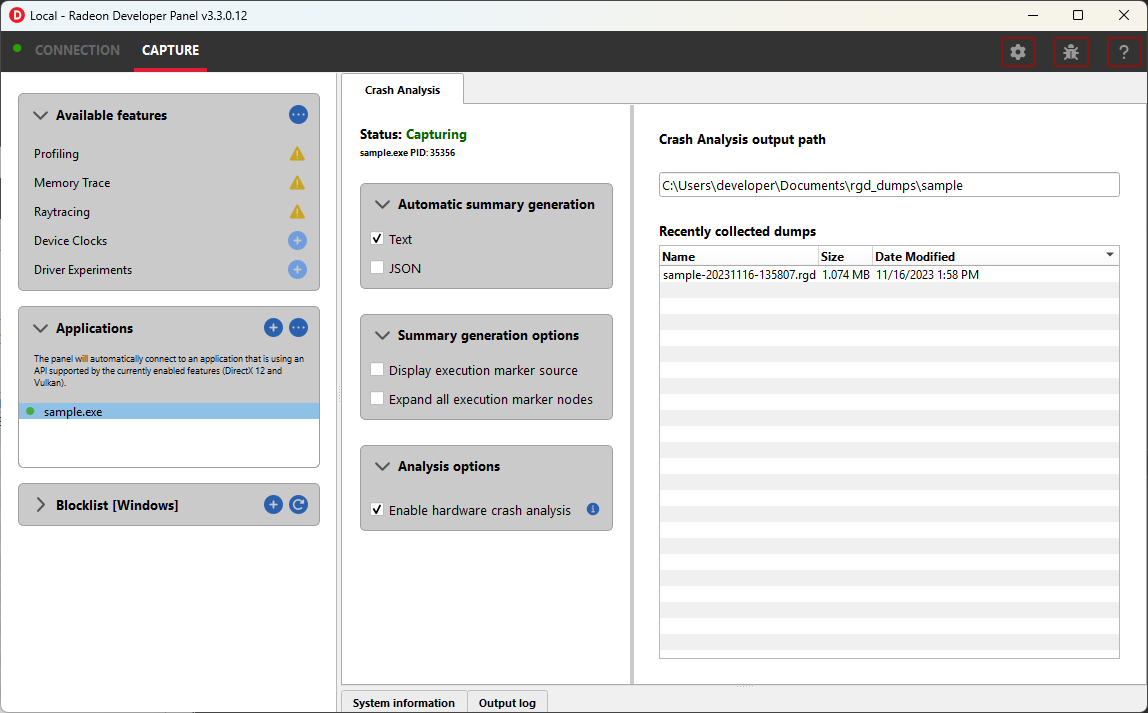
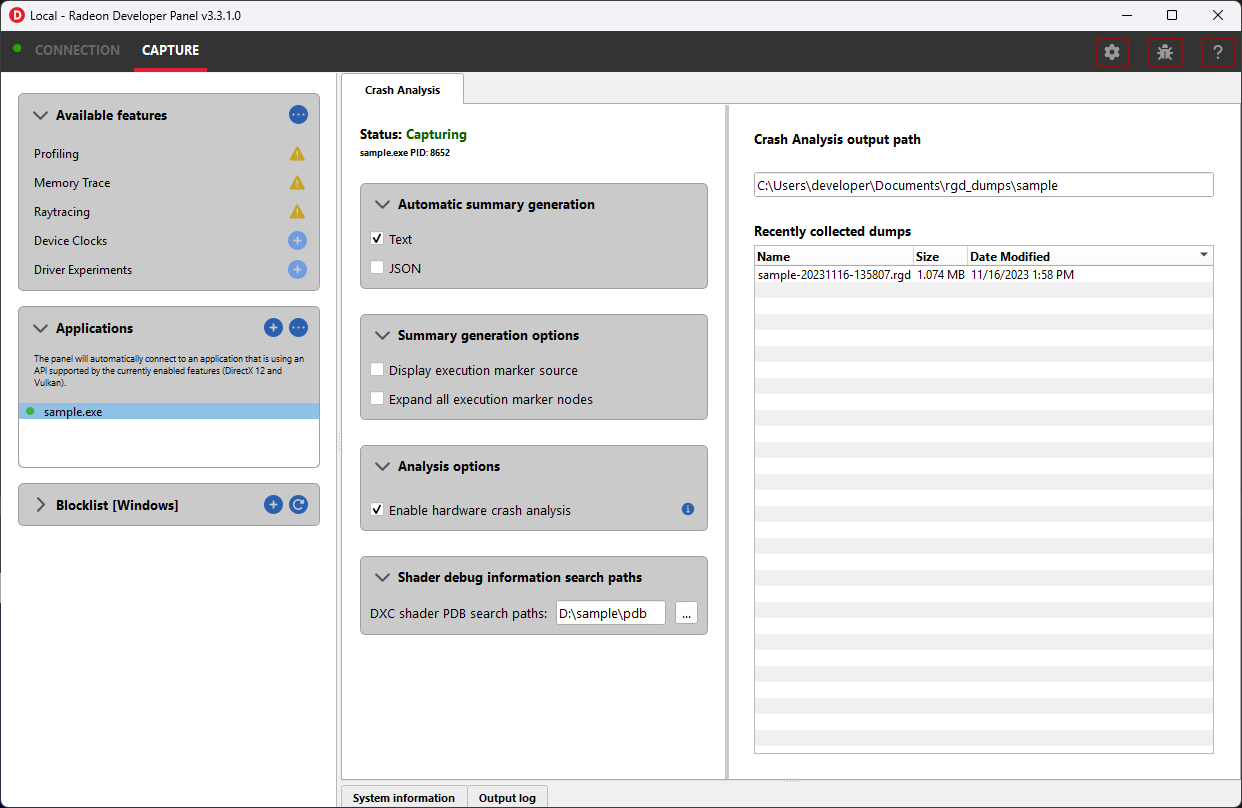
Update documentation for 3.3.1 release

Changed region(s): [[0.0, 0.0, 1.0, 1.0], [0.9451, 0.3086, 0.9756, 0.3394]]

diff --git a/docs/source/conf.py b/docs/source/conf.py
@@ -58,9 +58,9 @@ author = u'AMD Developer Tools'
 # built documents.
 #
 # The short X.Y version.
-version = u'3.3.0'
+version = u'3.3.1'
 # The full version, including alpha/beta/rc tags.
-release = u'3.3.0'
+release = u'3.3.1'
 
 # The language for content autogenerated by Sphinx. Refer to documentation
 # for a list of supported languages.

diff --git a/docs/source/features.rst b/docs/source/features.rst
@@ -214,6 +214,12 @@ The **Analysis options** section lists configuration options:
    upon crash and augments the information that is presented in the Crash Analysis (.rgd) output
    file with meaningful insights.
 
+The **Shader debug information search paths** section allows for configuring DXC shader PDB file search paths
+which will be used during crash dump generation.
+
+When provided and PDBs are successfully correlated the associated shader entry points and source files will be available to
+rgd.exe. Please see **Radeon GPU Detective** `documentation <https://gpuopen.com/manuals/rgd_manual/rgd_manual-help_manual/>`_ for more information.
+
 Once active, a GPU crash dump will be created once a TDR occurs.
 
 Example output:
@@ -498,6 +504,23 @@ Safety features
 Experiments in this group generally offer extra safety features that can decrease performance, but can make the
 application more correct and stable. Activating safety features can help expose errors in the code that
 could potentially cause instability in an application.
+
+**Submit command buffers separately**
+
+Submits each command buffer for execution on the GPU separately - disables chaining of multiple command buffers in
+a single submit call, so they don’t execute concurrently even when they are part of a single submission
+
+**Force NonUniformResourceIndex**
+
+Forces the shader compiler to treat all dynamic descriptor indexing as if it was decorated with NonUniformResourceIndex.
+This can be useful to aid in identifying bugs in shaders where NonUniformResourceIndex usage is missing while the index
+is non-uniform.
+
+**Upload heap in video memory**
+
+Enable automatic use of CPU-visible video memory preferred over system memory by resources created in the UPLOAD heap.
+This can be useful in identifying an opportunity to improve the performance of GPU data uploading by creating some buffers
+in the GPU_UPLOAD heap instead.
 
 **Disable color texture compression**
 
